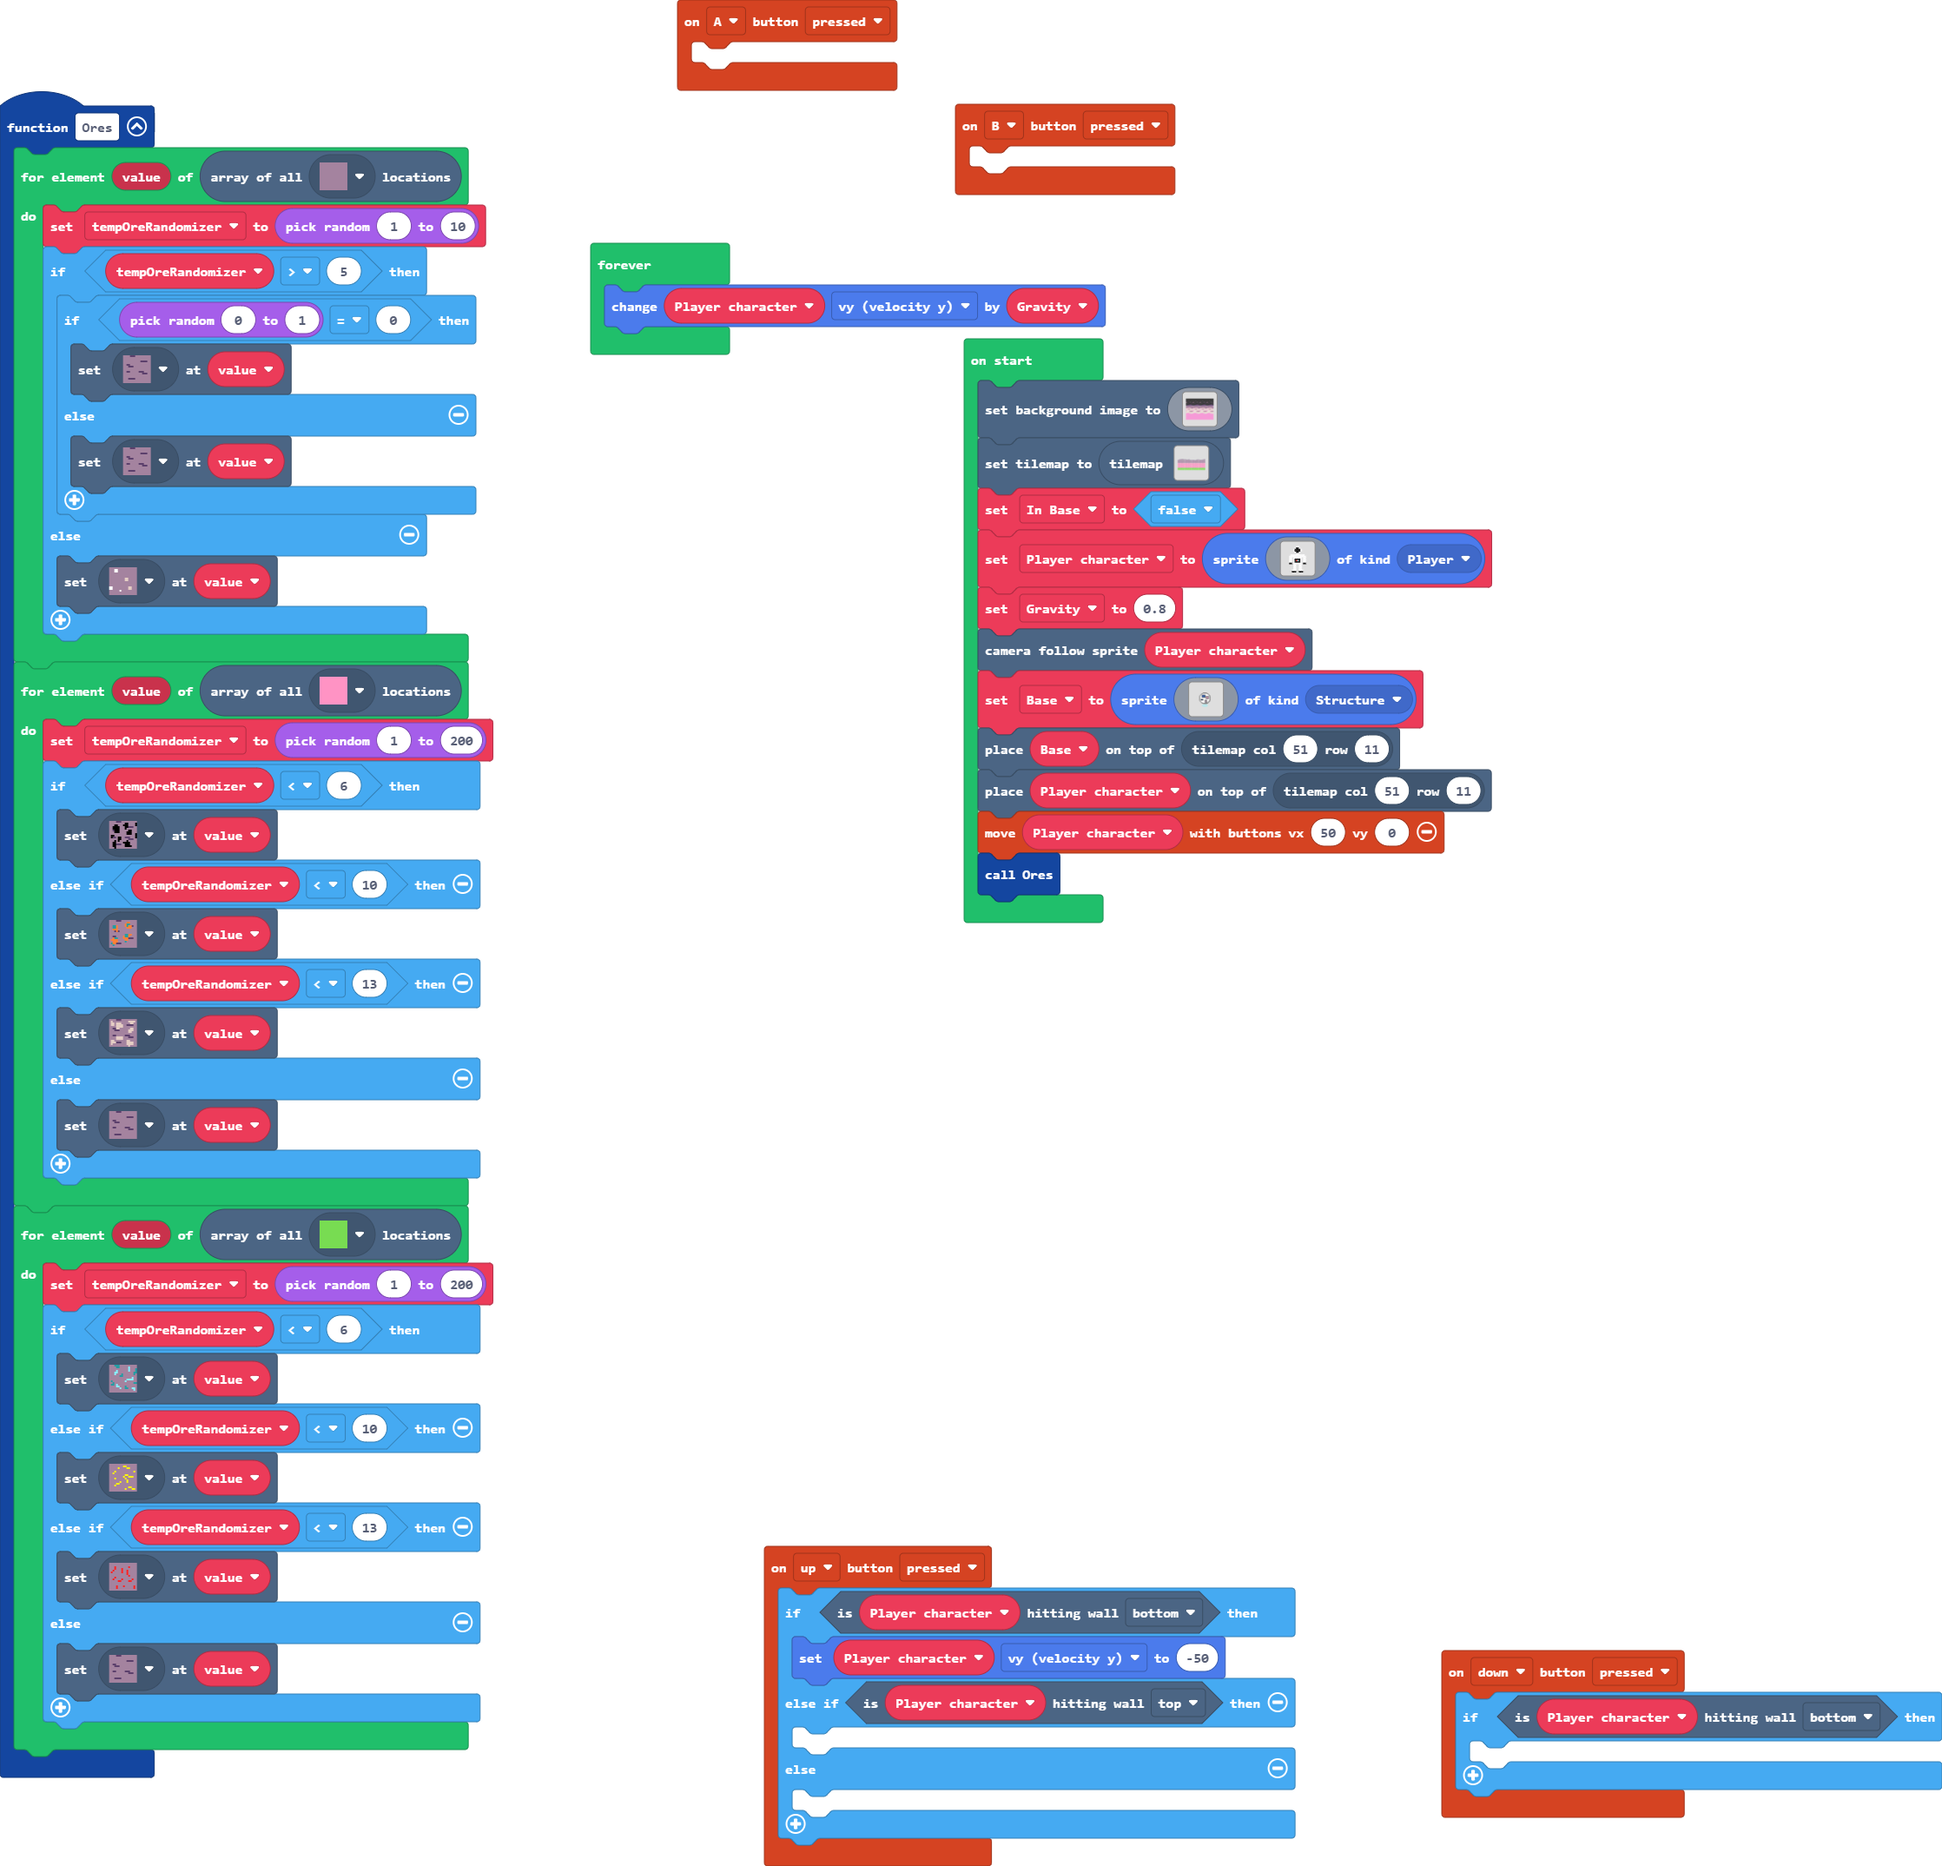
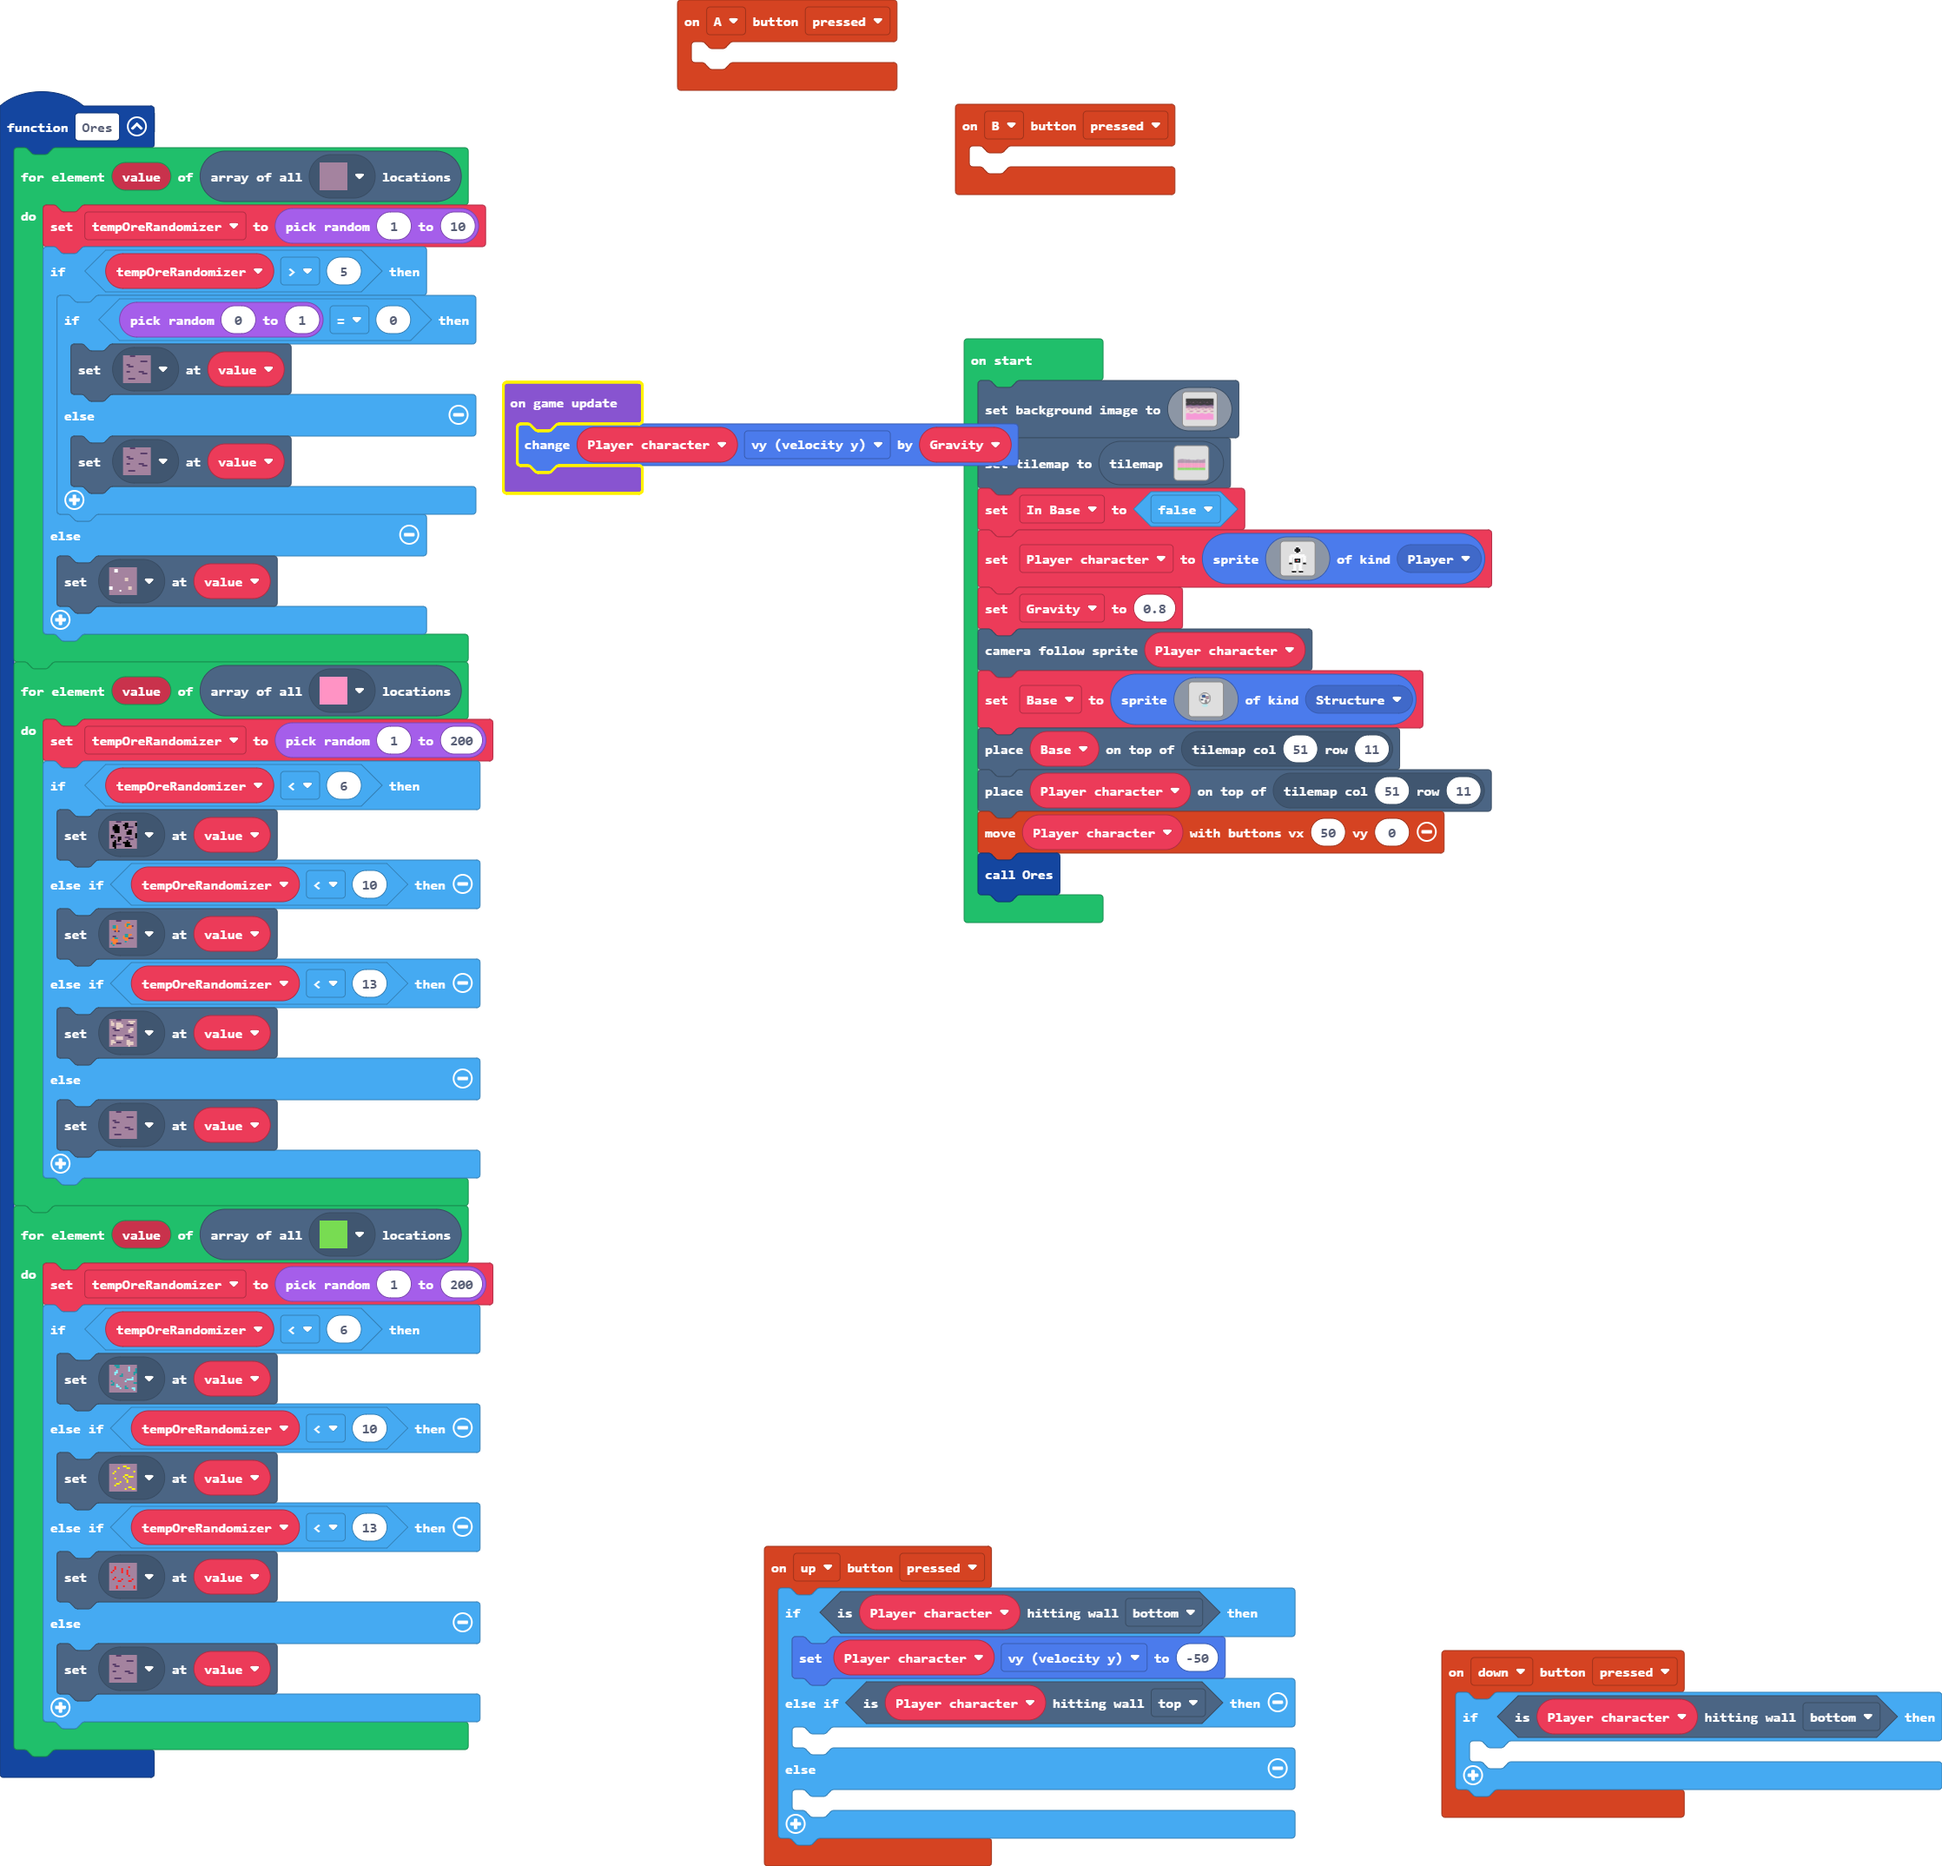
Update main.blocks, main.ts

Changed region(s): [[0.2469, 0.1248, 0.5863, 0.2807]]

diff --git a/main.ts b/main.ts
@@ -255,6 +255,6 @@ tiles.placeOnTile(Base, tiles.getTileLocation(51, 11))
 tiles.placeOnTile(Player_character, tiles.getTileLocation(51, 11))
 controller.moveSprite(Player_character, 50, 0)
 Ores()
-forever(function () {
+game.onUpdate(function () {
     Player_character.vy += Gravity
 })
